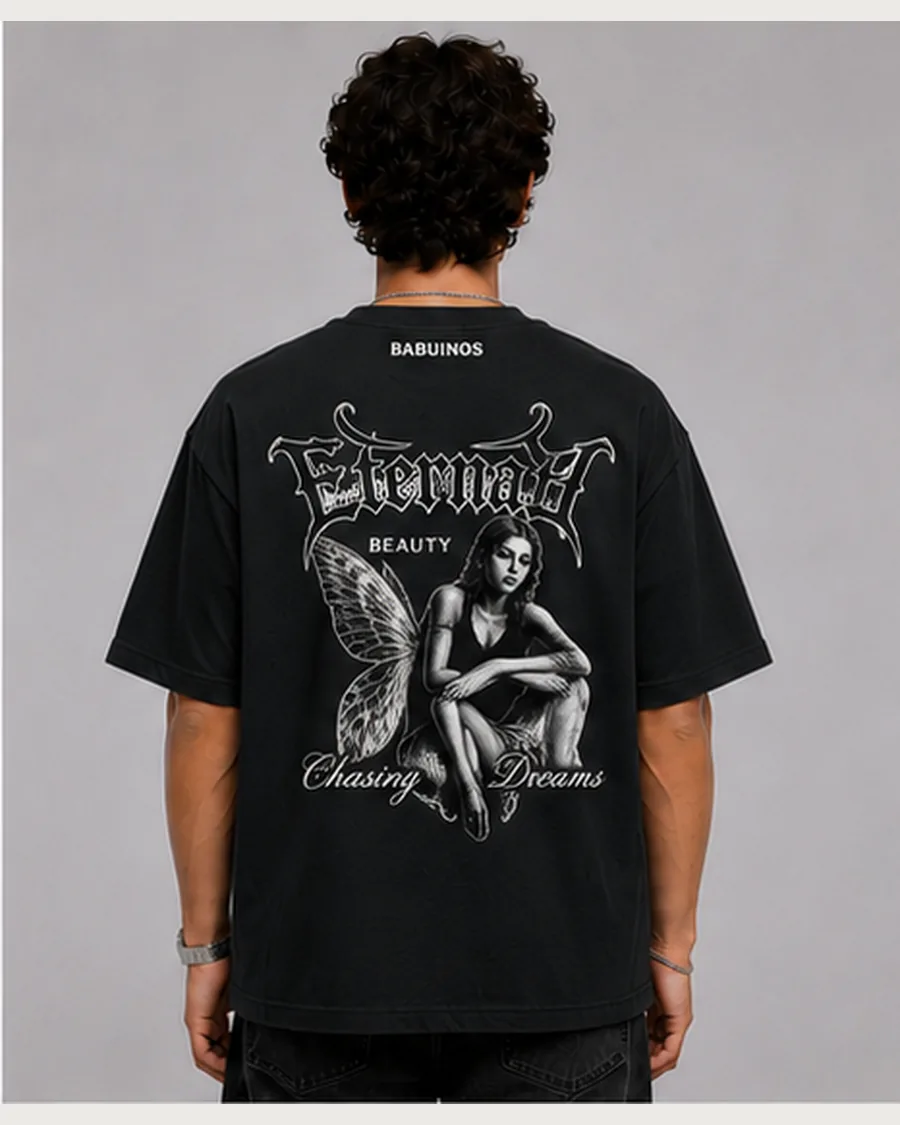
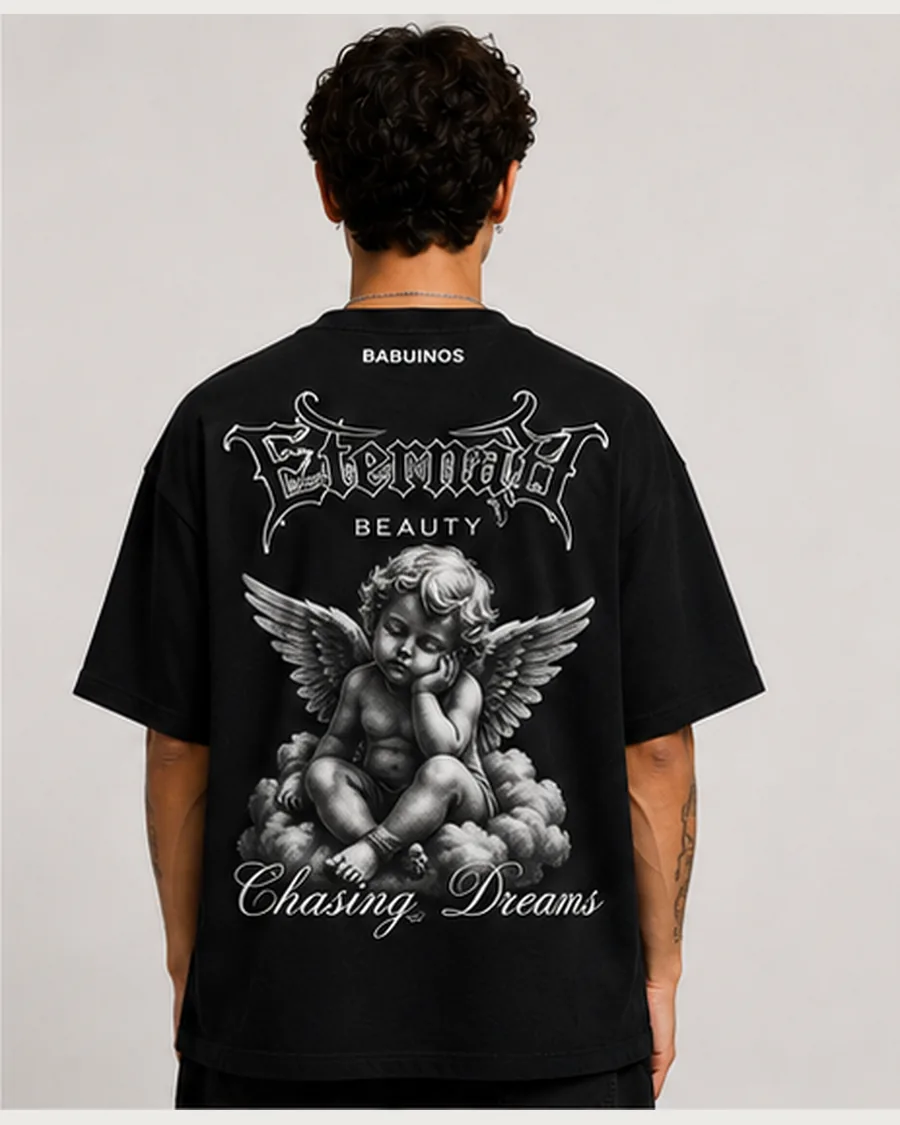
fix(eternal-beauty): diseño actualizado (querubín) — nueva lámina 13/13.5
Juan actualizó MATERIAL/Camisas/Coleccion Fundadores/13*.png: la espalda pasó de
un hada a un querubín alado sobre nubes (Eternal Beauty · Chasing Dreams).
Reprocesadas las 8 imágenes (6 de modelo + prenda frente/espalda) y ajustada la
descripción del producto. SW cache → v11. Verificado en la ficha: sin imágenes
rotas, sin desborde.

diff --git a/src/lib/products.ts b/src/lib/products.ts
@@ -551,9 +551,9 @@ const FUNDADORES: Product[] = [
     genero: "unisex",
     edition: "midnight",
     color: "negro",
-    desc: "Negra con el hada madrina a toda la espalda bajo el lettering Eternal Beauty. 'You Want Something' al frente.",
+    desc: "Negra con un querubín alado a toda la espalda bajo el lettering Eternal Beauty. 'You Want Something' al frente.",
     descLong:
-      "Negro absoluto con una ilustración de hada madrina de alas de mariposa a toda la espalda, bajo el lettering gótico Eternal Beauty y el remate Chasing Dreams. Al frente, 'You Want Something' en script fino con rosas; babuino troquelado en el ruedo y BABUINOS en la nuca.",
+      "Negro absoluto con una ilustración de querubín alado sobre las nubes a toda la espalda, bajo el lettering gótico Eternal Beauty y el remate Chasing Dreams. Al frente, 'You Want Something' en script fino con rosas; babuino troquelado en el ruedo y BABUINOS en la nuca.",
     fit: "Oversize",
     composicion: ALGODON,
     image: "/brand/products/eternal-beauty-frente.webp",

diff --git a/public/sw.js b/public/sw.js
@@ -11,8 +11,9 @@
    v7: Guns & Roses con prenda sola por corte (oversize H / crop M).
    v8: pieza 18 (Eternal Beauty) + música al primer gesto también en celular.
    v9: fotos de modelo nuevas de Free Palestine (mismo nombre, contenido nuevo).
-   v10: re-corte de las espaldas de Free Palestine (la lámina 4.5 venía mal). */
-const CACHE = "babuinos-v10";
+   v10: re-corte de las espaldas de Free Palestine (la lámina 4.5 venía mal).
+   v11: Eternal Beauty actualizada (nuevo diseño de querubín, prenda + modelos). */
+const CACHE = "babuinos-v11";
 const OFFLINE_URLS = ["/", "/icons/icon-192.png", "/icons/icon-512.png"];
 
 // Pre-cache a minimal app shell so the home opens even without connection.

diff --git a/ROADMAP.md b/ROADMAP.md
@@ -106,10 +106,11 @@ Salidos de probar la tienda en el celular, no de la auditoría.
 
 ## ✅ Fase 3e — Eternal Beauty + música al primer gesto (hecho · 2026-08-05)
 
-- [x] **Pieza 18 — "Eternal Beauty"** (Colección Fundadores): negra con un hada madrina de alas de mariposa
+- [x] **Pieza 18 — "Eternal Beauty"** (Colección Fundadores): negra con un querubín alado
       a toda la espalda (*Eternal Beauty · Chasing Dreams*), 'You Want Something' al frente. Nombre
-      dado por Juan. Su lámina de prenda tenía un ratio atípico (1.33), así que se procesó forzando
-      el rol prenda/grilla en vez de dejar que el auto-clasificador por proporción decidiera.
+      dado por Juan (del propio print). Su lámina de prenda tenía un ratio atípico (1.33), así que se
+      procesó forzando el rol prenda/grilla en vez de dejar que el auto-clasificador decidiera. El
+      diseño se actualizó el 5-ago (antes era un hada; ahora el querubín).
 - [x] **Música al primer gesto en CUALQUIER parte, también en celular** (toque/click/scroll), a
       pedido de Juan. Se quitó la guarda de móvil del autostart. Revierte la Fase 3b en ese punto:
       baja por streaming, así que no bloquea la primera vista.

diff --git a/PENDIENTES.md b/PENDIENTES.md
@@ -88,7 +88,7 @@ Estado: **en vivo** en https://babuinos-inc.vercel.app con las 15 piezas del cat
       filtro Azul + tema nuevo (Eminem — Ass Like That, 9 en total).
 - [x] **Pieza 17 "Green Afro Tiki"** (5-ago): celeste con tiki verde; nuevo color de filtro Celeste.
       Además Guns & Roses ahora muestra la prenda sola por corte (oversize hombre / crop mujer).
-- [x] **Pieza 18 "Eternal Beauty"** (5-ago): negra, hada a la espalda. Y música al primer gesto en
+- [x] **Pieza 18 "Eternal Beauty"** (5-ago): negra, querubín a la espalda. Y música al primer gesto en
       cualquier parte, también en celular (a pedido de Juan).
 - [x] **Auditoría de UI/UX aplicada** (4-ago) — ver [AUDITORIA-UX.md](AUDITORIA-UX.md):
       footer sin enlaces muertos (12 → 0), tope de stock en el carrito, contraste AA (5 fallas → 0),
